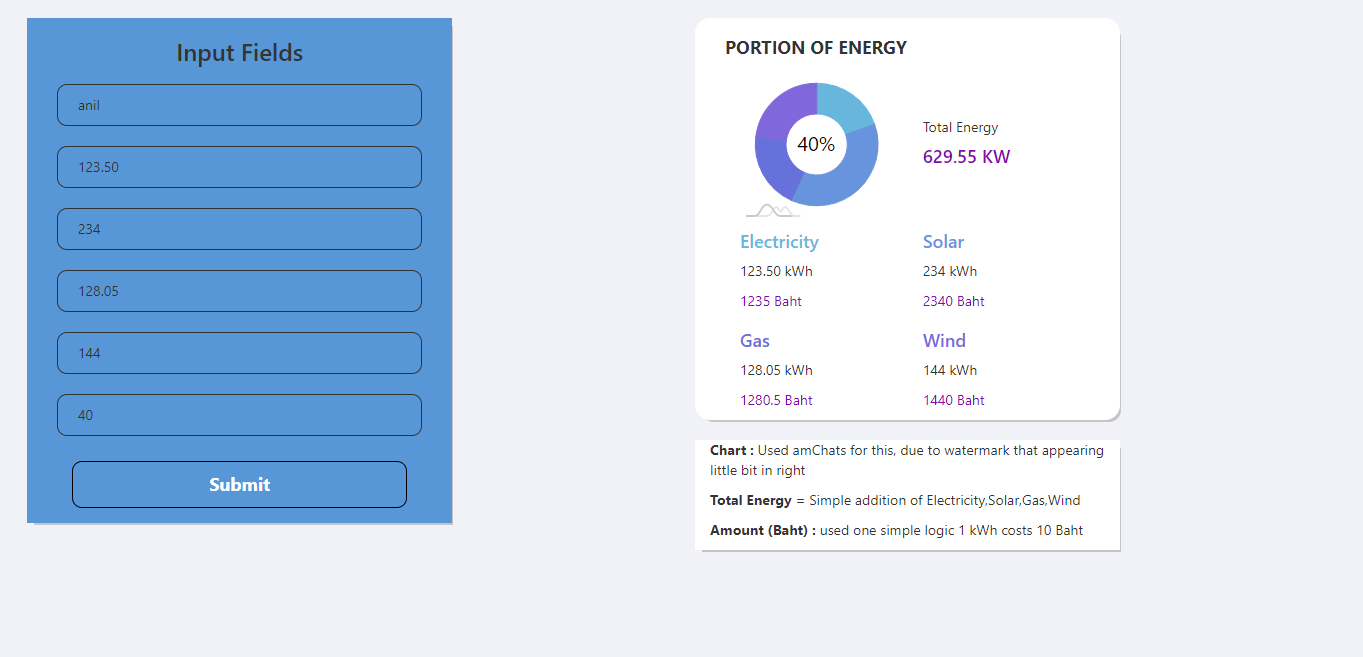
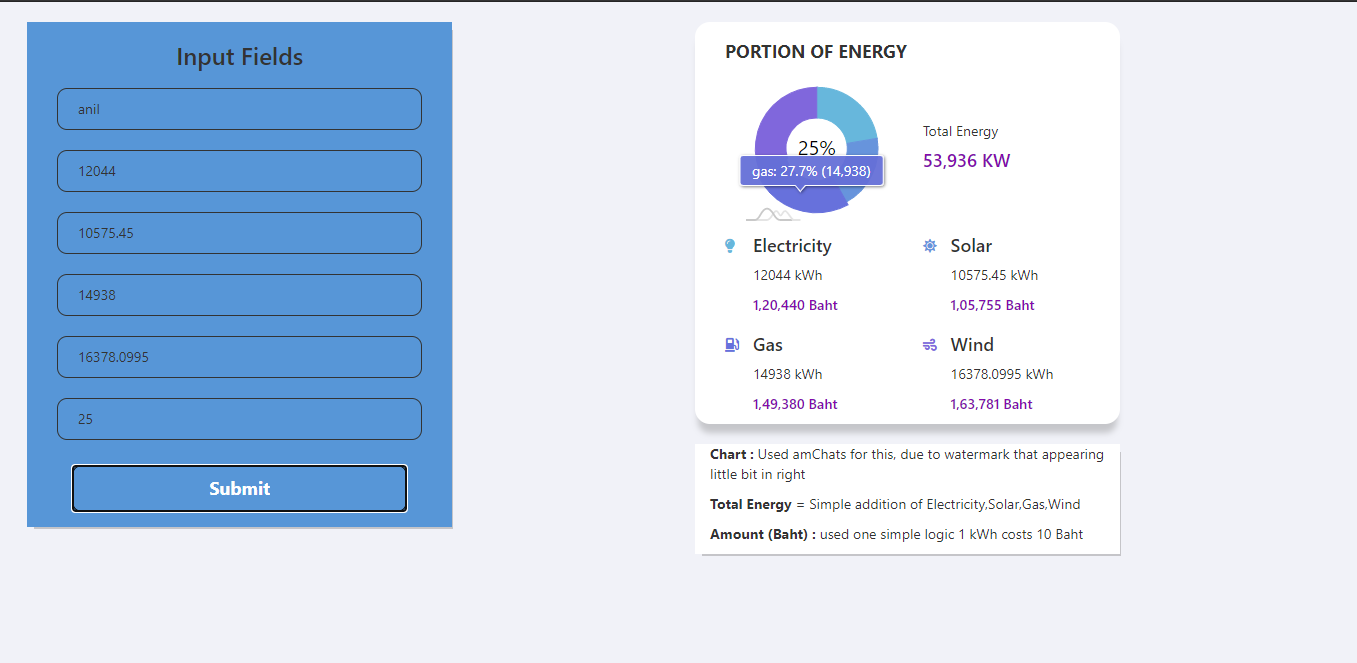
#formating price

diff --git a/src/App.js b/src/App.js
@@ -21,10 +21,10 @@ function App() {
   const [loader, setLoader] = useState(false)
   var todayDate = new Date();
   var tod = moment(todayDate).format('MM/DD/YYYY HH:mm:ss');
-  var currYear= moment(todayDate).format('YYYY');
+  var currYear = moment(todayDate).format('YYYY');
 
   function getFloatValue(num) {
-    return parseFloat(num)
+    return parseFloat(num);
   }
   function calculateTotalEnergy() {
     var total = 0;
@@ -34,10 +34,14 @@ function App() {
     setTotalEnergy(total);
   }
   function calculteUnit(kwTObaht) {
-    return (parseFloat(kwTObaht) * 10); // randomly taken one value 1kWh unit will cost 10 Baht
+    var cal = (parseFloat(kwTObaht) * 10); // randomly taken one value 1kWh unit will cost 10 Baht
+    return formatPrice(cal)
+  }
+  function formatPrice(price) {
+    return new Intl.NumberFormat('en-IN').format(Math.ceil(price));
   }
   function onSubmit(e) {
-    if(uname === '') { toast.info("Please enter your name"); return false; }
+    if (uname === '') { toast.info("Please enter your name"); return false; }
     else if (electriciy === '') { toast.info("Please enter the electricity value"); return false; }
     else if (solar === '') { toast.info("Please enter the solar value"); return false; }
     else if (gas === '') { toast.info("Please enter the gas value"); return false; }
@@ -45,7 +49,7 @@ function App() {
 
     setShowChart(true);
     setLoader(true)
-    chartData.splice(0,chartData.length);
+    chartData.splice(0, chartData.length);
     chartData.push({ "entity": "electriciy", "value": getFloatValue(electriciy) });
     chartData.push({ "entity": "solar", "value": getFloatValue(solar) });
     chartData.push({ "entity": "gas", "value": getFloatValue(gas) });
@@ -58,9 +62,9 @@ function App() {
 
   }
   function updateFirebaseData() {
-    firebase.database().ref(currYear+'/' + uname).set({
+    firebase.database().ref(currYear + '/' + uname).set({
       chartData: chartData,
-      date:tod
+      date: tod
     }, function (error) {
       if (error) {
         toast.error("Data updation is failed");
@@ -86,7 +90,7 @@ function App() {
           <div className="col-md-6 App" >
             <div className="col-md-8">
               <div className="row">
-                <div className="card col-md-12" style={{ backgroundColor: '#2276ccbd', margin: '20px 0px' }}>
+                <div className="card col-md-12 bg-blue">
                   <div className="col-md-12"> <h3>Input Fields</h3></div>
                   <div className="col-md-12">
                     <input type="text" pattern="" placeholder="Your Name" style={{ width: '100%' }} value={uname} onChange={event => setUname(event.target.value)}></input>
@@ -112,10 +116,12 @@ function App() {
                 {loader ?
                   <div className="col-md-12 m-tb-10 text-center">
                     <BeatLoader
-                      css={{display: "block",
+                      css={{
+                        display: "block",
                         borderColor: "red",
-                        textAlign:"center",
-                        margin:"200px auto"}}
+                        textAlign: "center",
+                        margin: "200px auto"
+                      }}
                       sizeUnit={"px"}
                       size={15}
                       color={'#123abc'}
@@ -124,9 +130,9 @@ function App() {
                   </div>
                   :
                   <>
-                    <div className="card col-md-8" style={{ margin: '20px 0px', borderRadius: '15px', overflow: 'hidden' }}>
+                    <div className="card col-md-8 chart">
                       <div className="col-md-12">
-                        <h4 style={{ textTransform: 'uppercase', fontWeight: '700', float: 'left', marginTop: '20px' }}>Portion of Energy</h4>
+                        <h4 className="portion">Portion of Energy</h4>
                       </div>
 
                       <div className="col-md-12">
@@ -136,33 +142,54 @@ function App() {
                         </div>
                         <div className="col-md-6">
                           <p style={{ marginTop: '50px' }}>Total Energy</p>
-                          <h4 style={{ color: '#850aad' }}>{totalEnergy} KW</h4>
+                          <h4 style={{ color: '#850aad' }}>{formatPrice(totalEnergy)} KW</h4>
                         </div>
 
                       </div>
-                      <div className="col-md-12">
-                        <div className="col-md-6">
-                          <h4 style={{ color: 'rgb(103, 183, 220)' }}>Electricity</h4>
-                          <p >{electriciy} kWh</p>
-                          <p style={{ color: '#850aad' }}>{calculteUnit(electriciy)} Baht</p>
-                        </div>
-                        <div className="col-md-6">
-                          <h4 style={{ color: 'rgb(103, 148, 220)' }}>Solar</h4>
-                          <p>{solar} kWh</p>
-                          <p style={{ color: '#850aad' }}>{calculteUnit(solar)} Baht</p>
-                        </div>
-                      </div>
-                      <div className="col-md-12">
-                        <div className="col-md-6">
-                          <h4 style={{ color: 'rgb(103, 113, 220)' }}>Gas</h4>
-                          <p>{gas} kWh</p>
-                          <p style={{ color: '#850aad' }}>{calculteUnit(gas)} Baht</p>
-                        </div>
+                      <div className="col-md-12 p-0">
                         <div className="col-md-6">
 
-                          <h4 style={{ color: 'rgb(128, 103, 220)' }}>Wind</h4>
-                          <p>{wind} kWh</p>
-                          <p style={{ color: '#850aad' }}>{calculteUnit(wind)} Baht</p>
+                          <div className="col-md-2 p-0">
+                            <i className='fas fa-lightbulb m-tb-10 elec_icon'></i>
+                          </div>
+                          <div className="col-md-10 p-0">
+                            <h4 > Electricity</h4>
+                            <p >{electriciy} kWh</p>
+                            <p style={{ color: '#850aad', fontWeight: '600' }}>{calculteUnit(electriciy)} Baht</p>
+                          </div>
+
+                        </div>
+                        <div className="col-md-6">
+                          <div className="col-md-2 p-0">
+                            <i className='fas fa-sun m-tb-10 solar_icon'></i>
+                          </div>
+                          <div className="col-md-10 p-0">
+                            <h4>  Solar</h4>
+                            <p>{solar} kWh</p>
+                            <p style={{ color: '#850aad', fontWeight: '600' }}>{calculteUnit(solar)} Baht</p>
+                          </div>
+                        </div>
+                      </div>
+                      <div className="col-md-12 p-0">
+                        <div className="col-md-6">
+                          <div className="col-md-2 p-0">
+                            <i className='fas fa-gas-pump m-tb-10 gas_icon'></i>
+                          </div>
+                          <div className="col-md-10 p-0">
+                            <h4> Gas</h4>
+                            <p>{gas} kWh</p>
+                            <p style={{ color: '#850aad', fontWeight: '600' }}>{calculteUnit(gas)} Baht</p>
+                          </div>
+                        </div>
+                        <div className="col-md-6">
+                          <div className="col-md-2 p-0">
+                            <i className='fas fa-wind m-tb-10 wind_icon'></i>
+                          </div>
+                          <div className="col-md-10 p-0">
+                            <h4> Wind</h4>
+                            <p>{wind} kWh</p>
+                            <p style={{ color: '#850aad', fontWeight: '600' }}>{calculteUnit(wind)} Baht</p>
+                          </div>
                         </div>
                       </div>
                     </div>

diff --git a/src/App.css b/src/App.css
@@ -4,6 +4,13 @@ body{
 .App {
   text-align: center;
 }
+.p-0{
+  padding:0
+}
+.m-tb-10{
+  margin-top: 13px;
+  margin-bottom: 10px;
+}
 .card{
   background-color: #FFFFFF;
   margin-bottom: 15px;
@@ -17,10 +24,20 @@ body{
   -o-transition: all 1s ease-in-out;
   transition: all 1s ease-in-out;
 }
+.portion{
+  text-transform: uppercase;
+   font-weight: 700; float: left; margin-top: 20px;
+}
+.bg-blue{
+  background-color: #2276ccbd;margin: 20px 0px ;
+}
 .card:hover{
   -webkit-box-shadow: 0px 12px 8px -3px rgba(112,112,112,0.34);
   -moz-box-shadow: 0px 12px 8px -3px rgba(112,112,112,0.34);
   box-shadow: 0px 12px 8px -3px rgba(112,112,112,0.34);
+}
+.chart{
+  margin:20px 0px; border-radius: 15px; overflow: hidden;
 }
 input{
   width: 100%;
@@ -52,7 +69,10 @@ button{
   color: #ffffff;
   font-weight: 700;
 }
-
+.elec_icon{ color: rgb(103, 183, 220)}
+.solar_icon{ color: rgb(103, 148, 220)}
+.gas_icon{color: rgb(103, 113, 220)}
+.wind_icon{color: rgb(128, 103, 220)}
 ::placeholder { /* Chrome, Firefox, Opera, Safari 10.1+ */
   color:#ffffff;
   opacity: 1; /* Firefox */

diff --git a/public/index.html b/public/index.html
@@ -17,8 +17,9 @@
     <link rel="manifest" href="%PUBLIC_URL%/manifest.json" />
     <!-- Latest compiled and minified CSS -->
 <link rel="stylesheet" href="https://maxcdn.bootstrapcdn.com/bootstrap/3.3.7/css/bootstrap.min.css" integrity="sha384-BVYiiSIFeK1dGmJRAkycuHAHRg32OmUcww7on3RYdg4Va+PmSTsz/K68vbdEjh4u" crossorigin="anonymous">
+<link rel="stylesheet" href="https://cdnjs.cloudflare.com/ajax/libs/font-awesome/4.7.0/css/font-awesome.min.css">
 <!-- The core Firebase JS SDK is always required and must be listed first -->
-
+<script src='https://kit.fontawesome.com/a076d05399.js'></script>
 <!--
       Notice the use of %PUBLIC_URL% in the tags above.
       It will be replaced with the URL of the `public` folder during the build.

diff --git a/src/ChartApp.js b/src/ChartApp.js
@@ -17,7 +17,8 @@ class ChartApp extends Component {
         // Add and configure Series
         var pieSeries = chart.series.push(new am4charts.PieSeries());
         pieSeries.dataFields.value = "value";
-        pieSeries.dataFields.hidden = "hidden";
+        pieSeries.dataFields.category = "entity";
+
         // Let's cut a hole in our Pie chart the size of 40% the radius
         chart.innerRadius = am4core.percent(40);
         var label = chart.seriesContainer.createChild(am4core.Label);
